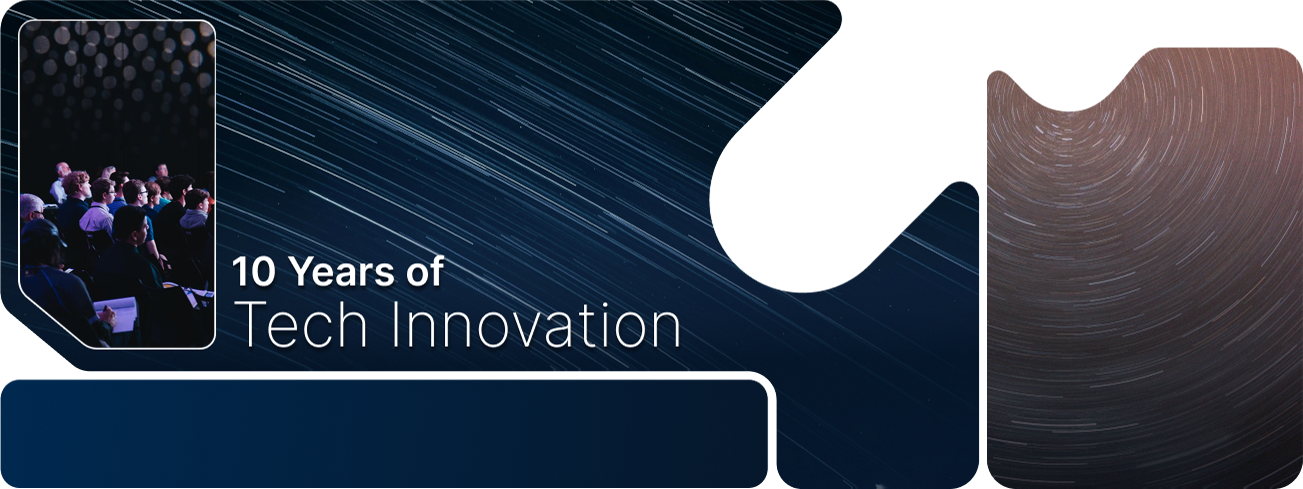
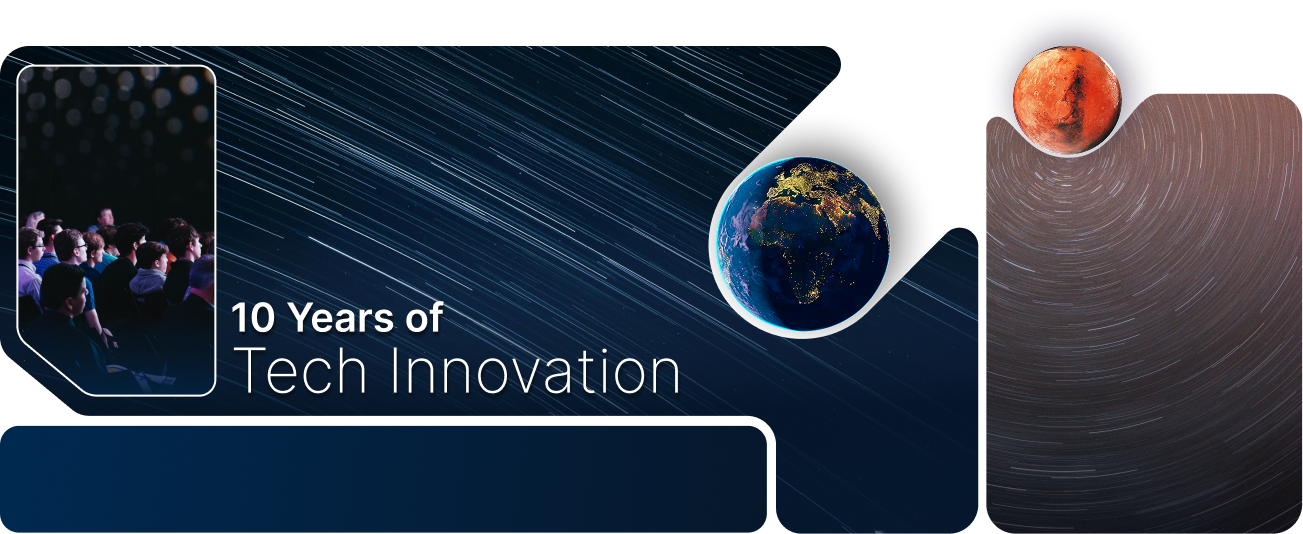
added

diff --git a/src/app/navigratingcomponents/challenges/realworld/realworld.component.ts b/src/app/navigratingcomponents/challenges/realworld/realworld.component.ts
@@ -14,40 +14,40 @@ export class RealworldComponent {
       title: 'SkyRoot Visit',
       description: 'Our industrial visits connect participants with leading organizations in the space sector.',
       images: [
-        'assets/skyroot1.jpg',
-        'assets/skyroot2.jpg',
-        'assets/skyroot3.jpg',
-        'assets/skyroot4.jpg'
+        '../../../assets/skyrootvisit/WhatsApp Image 2024-07-12 at 16.17.04.jpeg',
+        '../../../assets/skyrootvisit/WhatsApp Image 2024-07-12 at 16.17.04-2.jpeg',
+        '../../../assets/skyrootvisit/WhatsApp Image 2024-07-12 at 16.17.04 2.png',
+        '../../../assets/skyrootvisit/WhatsApp Image 2024-07-12 at 16.17.04 2 (2).png'
       ]
     },
     {
       title: 'Space Apps @Microsoft',
       description: 'An exclusive session with Microsoft mentors to explore space app challenges.',
       images: [
-        'assets/microsoft1.jpg',
-        'assets/microsoft2.jpg',
-        'assets/microsoft3.jpg',
-        'assets/microsoft4.jpg'
+        '../../../assets/skyrootvisit/WhatsApp Image 2024-07-12 at 16.17.04.jpeg',
+        '../../../assets/skyrootvisit/WhatsApp Image 2024-07-12 at 16.17.04-2.jpeg',
+        '../../../assets/skyrootvisit/WhatsApp Image 2024-07-12 at 16.17.04 2.png',
+        '../../../assets/skyrootvisit/WhatsApp Image 2024-07-12 at 16.17.04 2 (2).png'
       ]
     },
     {
       title: 'T-hub Visit',
       description: 'A tour into India’s largest innovation hub connecting startups.',
       images: [
-        'assets/thub1.jpg',
-        'assets/thub2.jpg',
-        'assets/thub3.jpg',
-        'assets/thub4.jpg'
+         '../../../assets/skyrootvisit/WhatsApp Image 2024-07-12 at 16.17.04.jpeg',
+        '../../../assets/skyrootvisit/WhatsApp Image 2024-07-12 at 16.17.04-2.jpeg',
+        '../../../assets/skyrootvisit/WhatsApp Image 2024-07-12 at 16.17.04 2.png',
+        '../../../assets/skyrootvisit/WhatsApp Image 2024-07-12 at 16.17.04 2 (2).png'
       ]
     },
     {
       title: 'We-Hub Bootcamp',
       description: 'Bootcamp at We-Hub promoting women-led innovation.',
       images: [
-        'assets/wehub1.jpg',
-        'assets/wehub2.jpg',
-        'assets/wehub3.jpg',
-        'assets/wehub4.jpg'
+        '../../../assets/skyrootvisit/WhatsApp Image 2024-07-12 at 16.17.04.jpeg',
+        '../../../assets/skyrootvisit/WhatsApp Image 2024-07-12 at 16.17.04-2.jpeg',
+        '../../../assets/skyrootvisit/WhatsApp Image 2024-07-12 at 16.17.04 2.png',
+        '../../../assets/skyrootvisit/WhatsApp Image 2024-07-12 at 16.17.04 2 (2).png'
       ]
     }
   ];

diff --git a/src/app/navigratingcomponents/previouseditions/infographics/infographics.component.css b/src/app/navigratingcomponents/previouseditions/infographics/infographics.component.css
@@ -1,0 +1,52 @@
+.container1 {
+  text-align: center;
+  padding: 40px 0;
+  background: linear-gradient(to bottom, #ffffff, #cce0f9);
+  margin: 10% 0;
+}
+
+.highlight {
+  color: #ff8031;
+  font-weight: bold;
+}
+
+.arc {
+  position: relative;
+  width: 100%;
+  height: 300px;
+  margin-top: 40px;
+}
+
+.card {
+  position: absolute;
+  width: 150px;
+  height: 90px;
+  background-color: #001f4d;
+  color: white;
+  border-radius: 8px;
+  cursor: pointer;
+  padding: 10px;
+  box-shadow: 0 6px 18px rgba(0, 0, 0, 0.2);
+  transition: transform 0.3s, box-shadow 0.3s;
+  display: flex;
+  flex-direction: column;
+  justify-content: center;
+  align-items: center;
+}
+
+.card:hover {
+  transform: scale(1.1);
+  box-shadow: 0 12px 25px rgba(0, 0, 0, 0.3);
+}
+
+.year {
+  font-size: 18px;
+  font-weight: bold;
+}
+
+/* Position cards in arc */
+.card:nth-child(1) { top: 70%; left: 15%; transform: rotate(-40deg); }
+.card:nth-child(2) { top: 30%; left: 30%; transform: rotate(-20deg); }
+.card:nth-child(3) { top: 10%; left: 45%; transform: rotate(0deg); }
+.card:nth-child(4) { top: 30%; left: 60%; transform: rotate(20deg); }
+.card:nth-child(5) { top: 70%; left: 75%; transform: rotate(40deg); }

diff --git a/src/app/navigratingcomponents/previouseditions/infographics/infographics.component.ts b/src/app/navigratingcomponents/previouseditions/infographics/infographics.component.ts
@@ -1,0 +1,33 @@
+import { Component } from '@angular/core';
+
+@Component({
+  selector: 'app-infographics',
+  templateUrl: './infographics.component.html',
+  styleUrls: ['./infographics.component.css']
+})
+export class InfographicsComponent {
+   cards = [
+    { year: '2016', link: 'assets/reports/2016.pdf' },
+    { year: '2017', link: 'assets/reports/2017.pdf' },
+    { year: '2018', link: 'assets/reports/2018.pdf' },
+    { year: '2019', link: 'assets/reports/2019.pdf' },
+    { year: '2020', link: 'assets/reports/2020.pdf' }
+  ];
+
+  openPDF(link: string) {
+    window.open(link, '_blank');
+  }
+
+  getCardTransform(index: number, total: number): string {
+    const angleStep = 60 / (total - 1); // degrees between cards
+    const angle = -30 + index * angleStep; // spread from -30 to +30 degrees
+    const radius = 150; // px distance from center
+
+    // Convert angle to radians for math
+    const radians = angle * (Math.PI / 180);
+    const x = radius * Math.cos(radians);
+    const y = radius * Math.sin(radians);
+
+    return `translate(${x}px, ${y}px) rotate(${angle}deg)`;
+  }
+}

diff --git a/src/app/navigratingcomponents/home/banner10/banner10.component.css b/src/app/navigratingcomponents/home/banner10/banner10.component.css
@@ -24,7 +24,7 @@
 .details{
   display: flex;
   text-align: start;
-  padding: 6.5% 2% 0;
+  padding: 33% 2% 0;
 }
 .details .data h2{
   font-size: 1.3rem;
@@ -48,20 +48,7 @@
   font-size: 3rem;
   margin-top: -10%;
 }
-canvas {
-  background: transparent !important;
-}
-.earth{
-  margin: 0px 0px 0px 48%;
-}
 
-.earth-banner{
-  display: flex;
-  color: #fff;
-}
-.earth-banner .logo img{
-  margin: 17px 0px 0 20px;
-}
 /* Your existing CSS remains same */
 
 /* Responsive for Large screens (1200px and below) */
@@ -81,9 +68,7 @@ canvas {
   .details .data-right h2 {
     font-size: 2.5rem;
   }
-  .earth {
-    margin: 0 0 0 40%;
-  }
+  
 }
 
 /* Responsive for Medium screens (992px and below) */
@@ -116,9 +101,7 @@ canvas {
     padding: 3% 0 0;
     text-align: center;
   }
-  .earth {
-    margin: 0 auto;
-  }
+  
 }
 
 /* Responsive for Small screens (768px and below) */

diff --git a/src/app/navigratingcomponents/bootcamp/banner5/banner5.component.html b/src/app/navigratingcomponents/bootcamp/banner5/banner5.component.html
@@ -10,12 +10,10 @@
     </div>
 
     <p>
-      Lorem Ipsum is simply dummy text of the printing and typesetting industry.
-      Lorem Ipsum has been the industry's standard dummy text ever since the
-      1500s, when an unknown printer took a galley of type and scrambled it to
-      make a type specimen book. It has survived not only five centuries, but
-      also the leap into electronic typesetting, remaining essentially unchanged.
-      It was popularised in the 1960s.
+      Space App India is India's first one-stop platform for all space-related programs. We work in three verticals
+      research, development, and education. We are a group of space enthusiasts, researchers, scientists, and
+      entrepreneurs trying to create a super active space community and ecosystem in India to help spread space
+      technology to the masses.
     </p>
   </div>
 

diff --git a/src/app/navigratingcomponents/bootcamp/above-context/above-context.component.html b/src/app/navigratingcomponents/bootcamp/above-context/above-context.component.html
@@ -9,11 +9,13 @@
   <div *ngIf="activeTab === 'details'">
     <h2>Above the context</h2>
     <p>
-      Lorem Ipsum is simply dummy text of the printing and typesetting industry...
+      The "Trap Where Conducted" video showcases a suspenseful setup where individuals unknowingly enter a concealed
+      trap. Tension builds as the environment gradually reveals its hidden dangers.
     </p>
 
     <div class="custom-video-box playing">
-      <iframe class="masked-video" [src]="sanitizedVideoSrc" frameborder="0" allow="autoplay; encrypted-media" allowfullscreen></iframe>
+      <iframe class="masked-video" [src]="sanitizedVideoSrc" frameborder="0" allow="autoplay; encrypted-media"
+        allowfullscreen></iframe>
     </div>
 
     <app-video-gallery></app-video-gallery>

diff --git a/src/app/app.module.ts b/src/app/app.module.ts
@@ -45,6 +45,7 @@ import player from 'lottie-web';
 import { VideoGalleryComponent } from './navigratingcomponents/bootcamp/video-gallery/video-gallery.component';
 import { FormsModule } from '@angular/forms';
 import { RealworldComponent } from './navigratingcomponents/challenges/realworld/realworld.component';
+import { InfographicsComponent } from './navigratingcomponents/previouseditions/infographics/infographics.component';
 
 export function playerFactory() {
   return player;
@@ -90,7 +91,8 @@ export function playerFactory() {
     VideosbootComponent,
     PreloadingComponent,
     VideoGalleryComponent,
-    RealworldComponent
+    RealworldComponent,
+    InfographicsComponent
   ],
   imports: [
     BrowserModule,

diff --git a/src/app/commoncomponents/navbar/navbar.component.html b/src/app/commoncomponents/navbar/navbar.component.html
@@ -35,10 +35,10 @@
             <a class="nav-link" routerLink="/previouseditions" routerLinkActive="active-link"
               [routerLinkActiveOptions]="{ exact: true }" (click)="closeOffcanvas()">Previous Editions</a>
           </li>
-          <li class="nav-item">
+          <!-- <li class="nav-item">
             <a class="nav-link" routerLink="/new" routerLinkActive="active-link"
               [routerLinkActiveOptions]="{ exact: true }" (click)="closeOffcanvas()">News</a>
-          </li>
+          </li> -->
           <li class="nav-item">
             <a class="nav-link" routerLink="/faqs" routerLinkActive="active-link"
               [routerLinkActiveOptions]="{ exact: true }" (click)="closeOffcanvas()">FAQs</a>

diff --git a/src/app/navigratingcomponents/previouseditions/infographics/infographics.component.spec.ts b/src/app/navigratingcomponents/previouseditions/infographics/infographics.component.spec.ts
@@ -1,0 +1,21 @@
+import { ComponentFixture, TestBed } from '@angular/core/testing';
+
+import { InfographicsComponent } from './infographics.component';
+
+describe('InfographicsComponent', () => {
+  let component: InfographicsComponent;
+  let fixture: ComponentFixture<InfographicsComponent>;
+
+  beforeEach(() => {
+    TestBed.configureTestingModule({
+      declarations: [InfographicsComponent]
+    });
+    fixture = TestBed.createComponent(InfographicsComponent);
+    component = fixture.componentInstance;
+    fixture.detectChanges();
+  });
+
+  it('should create', () => {
+    expect(component).toBeTruthy();
+  });
+});

diff --git a/src/app/navigratingcomponents/previouseditions/infographics/infographics.component.html b/src/app/navigratingcomponents/previouseditions/infographics/infographics.component.html
@@ -1,0 +1,17 @@
+<div class="container1">
+  <h2>
+    <span class="highlight">Have a Look at</span> <br />
+    <strong>Infographics</strong>
+  </h2>
+
+  <div class="arc">
+    <div
+      class="card"
+      *ngFor="let card of cards; let i = index"
+      (click)="openPDF(card.link)"
+    >
+      <div>Space Apps</div>
+      <div class="year">{{ card.year }}</div>
+    </div>
+  </div>
+</div>

diff --git a/src/app/navigratingcomponents/home/banner10/banner10.component.html b/src/app/navigratingcomponents/home/banner10/banner10.component.html
@@ -1,11 +1,6 @@
-<!-- banner.component.html -->
 <div class="banner">
   <div class="banner-details">
     <div class="image">
-      <div class="earth">
-        <app-mars></app-mars>
-        <div class="w-full md:w-1/2 h-[190px] users" #canvasContainer></div>
-      </div>
       <div class="details">
         <div class="data">
           <h1>1,22,300+</h1>

diff --git a/src/app/navigratingcomponents/previouseditions/previouseditions.component.html b/src/app/navigratingcomponents/previouseditions/previouseditions.component.html
@@ -1,5 +1,6 @@
 <app-banner9></app-banner9>
 <app-videosboot></app-videosboot>
+<app-infographics></app-infographics>
 <!-- <app-winners></app-winners> -->
 <app-gallery></app-gallery>
 <!-- <app-radar></app-radar> -->
